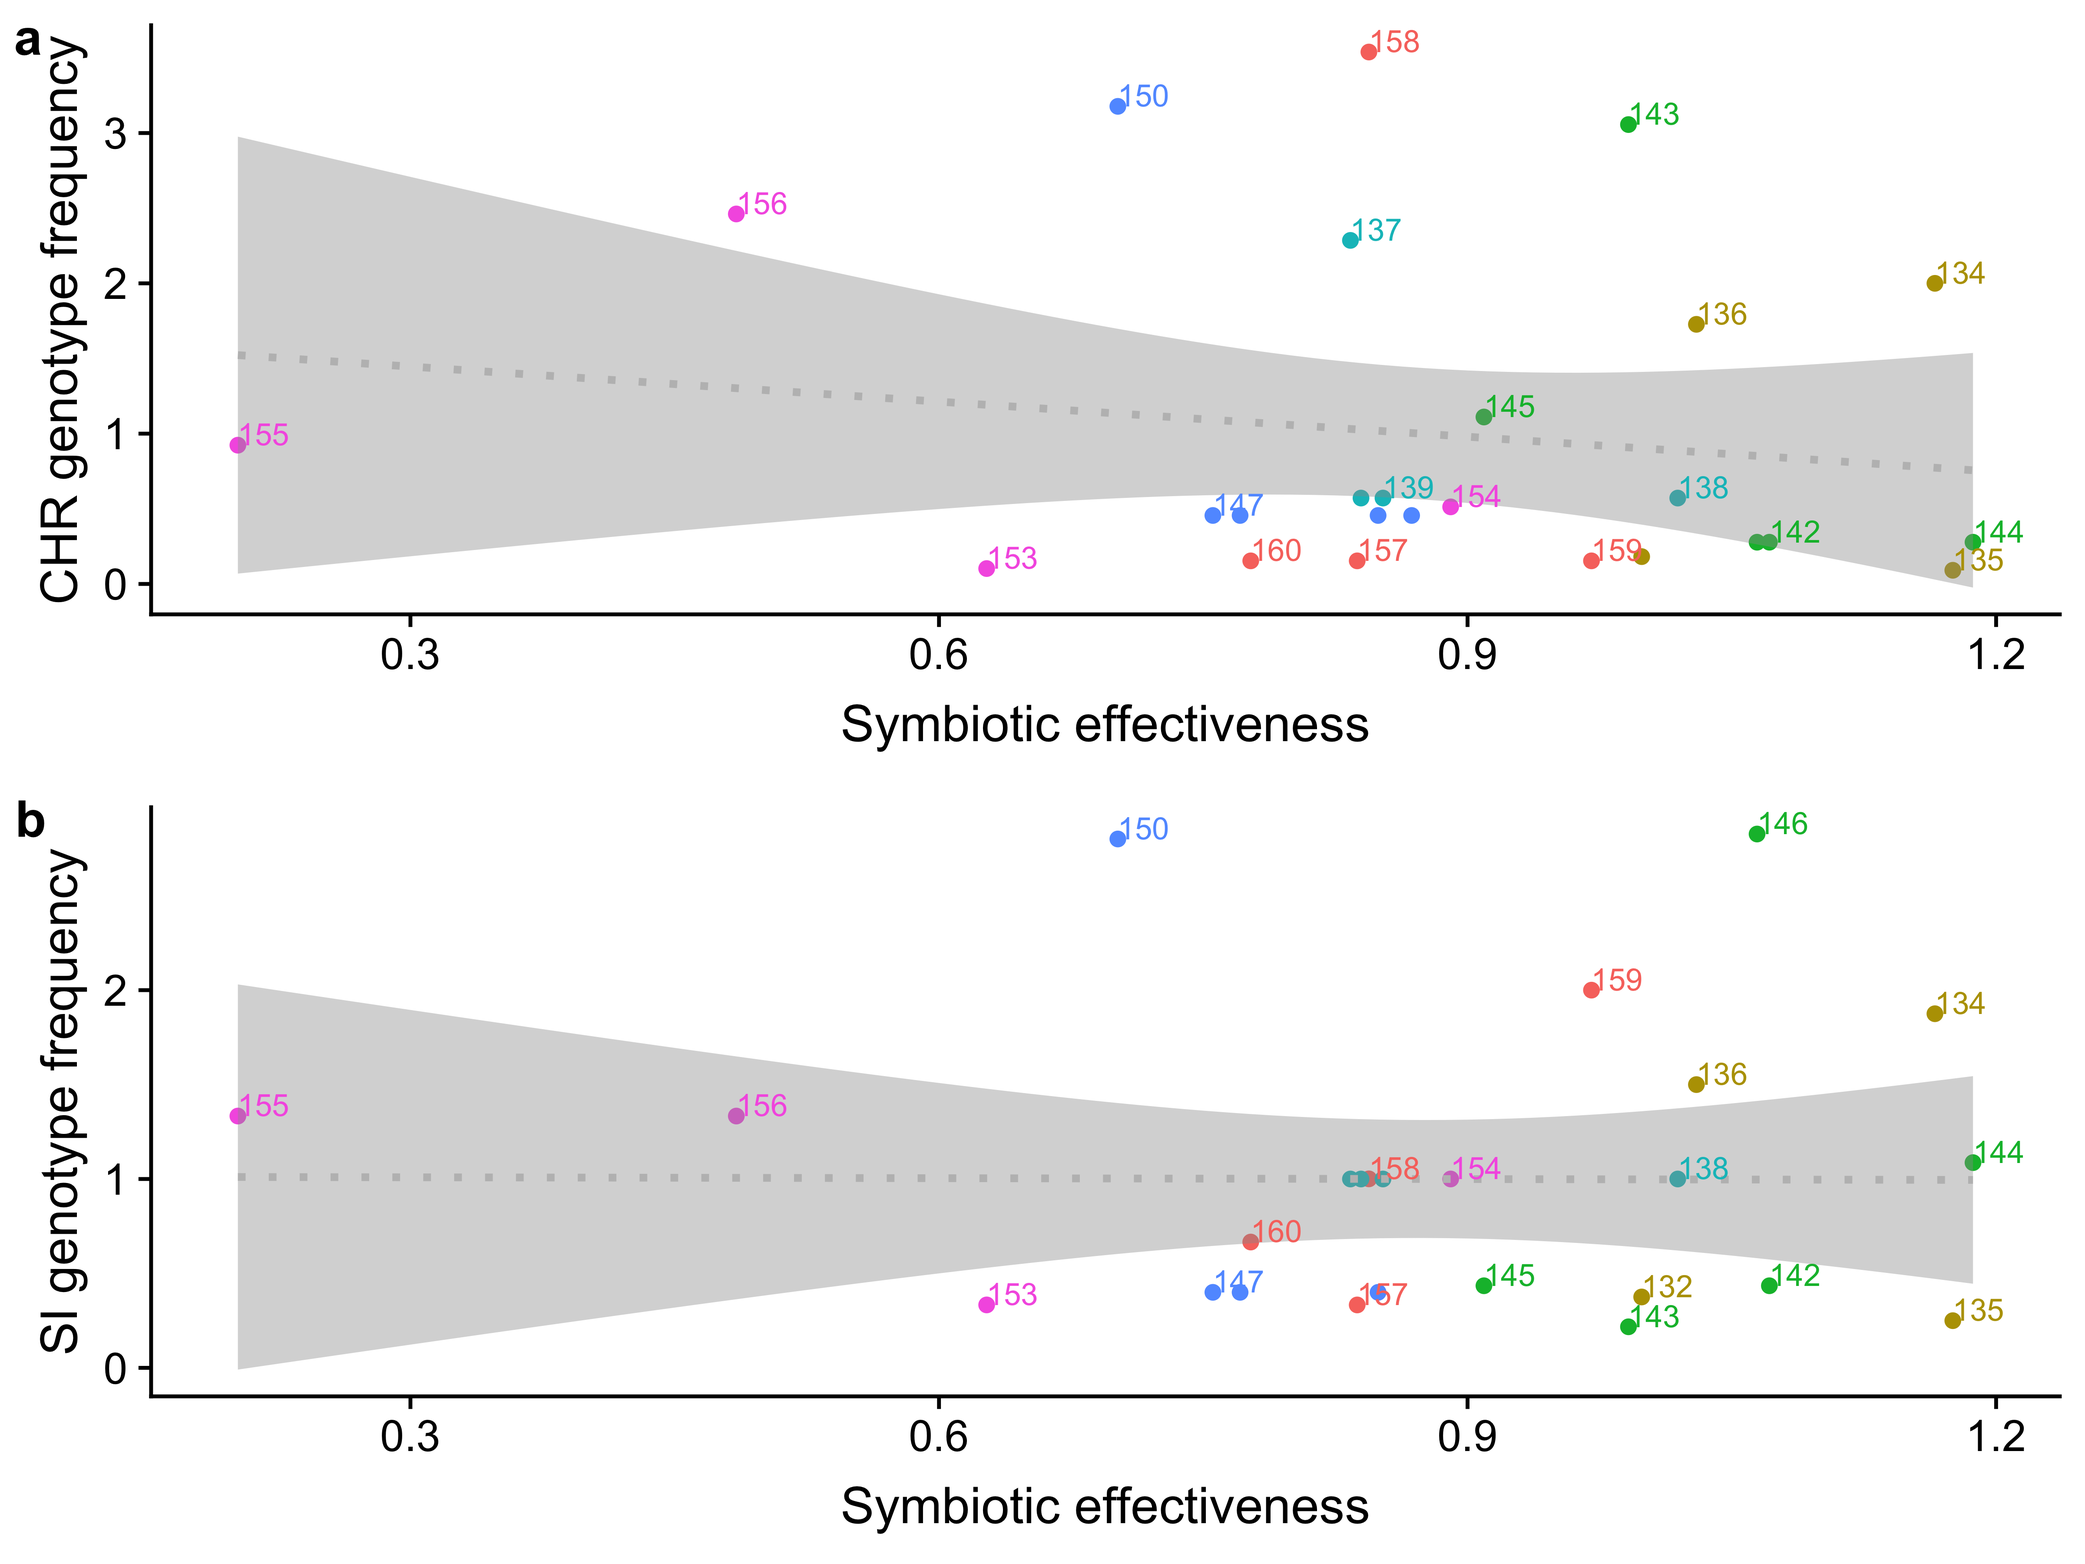
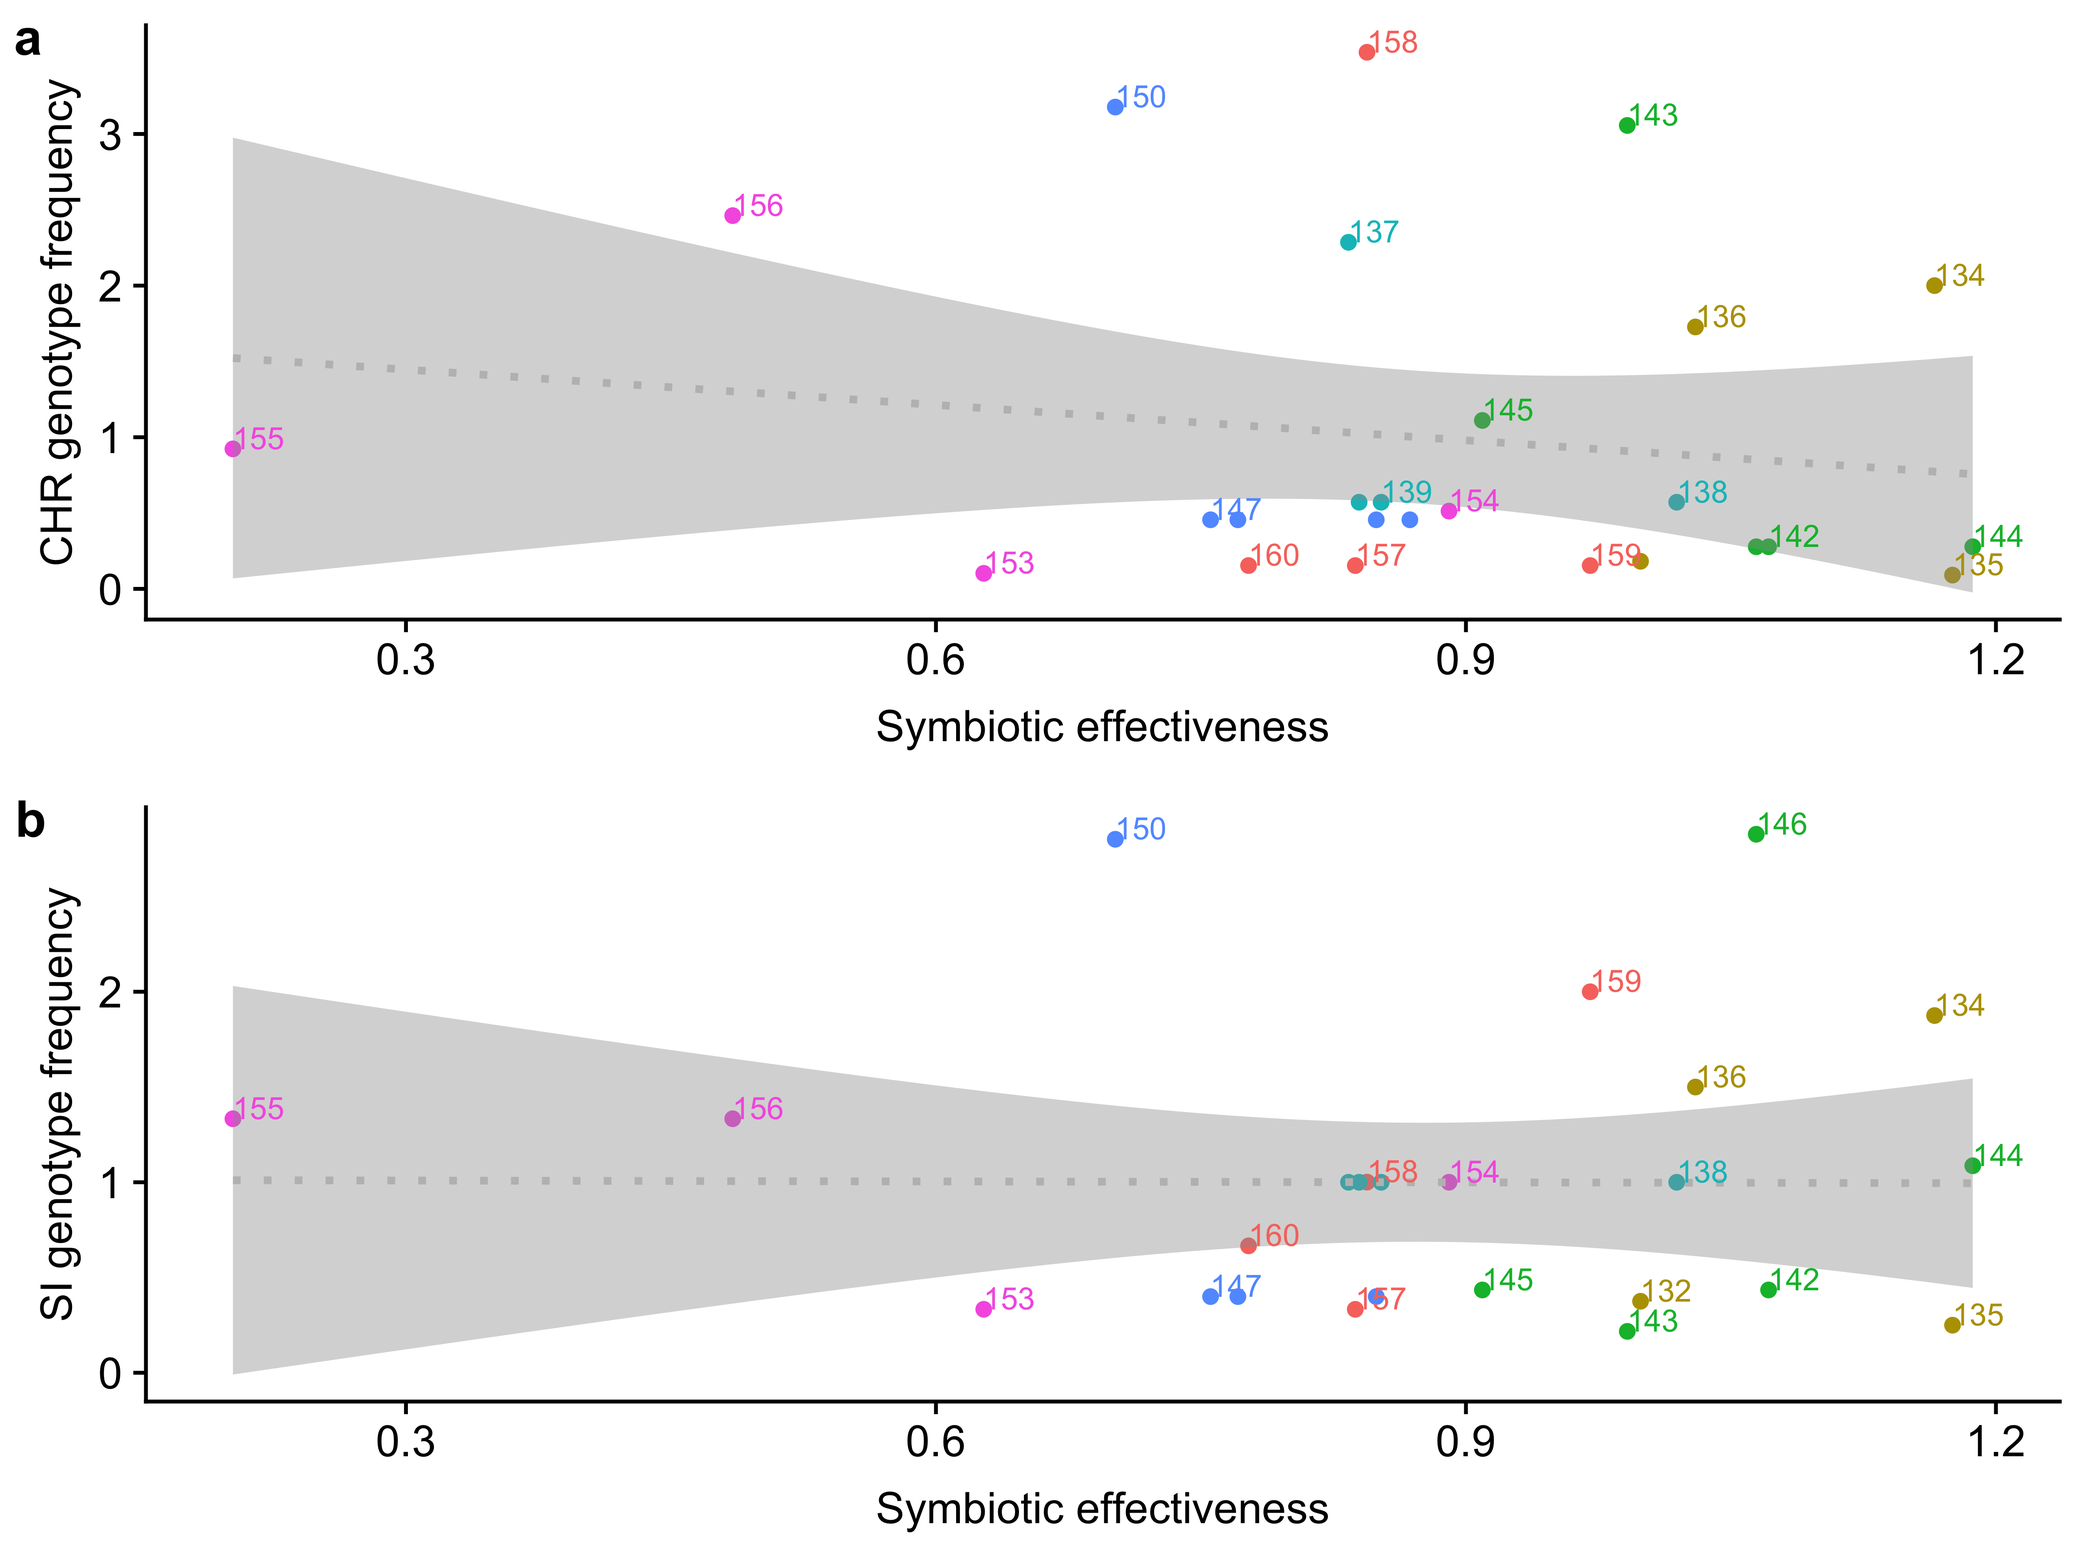
Commit from RStudio

diff --git a/README.md b/README.md
@@ -79,6 +79,9 @@ new.table2 <- data_sym %>% group_by(Population, Strain) %>% summarize(mean_RGR =
 
 #Merge data in Tables S2 and S4 into a single data frame
 df <- merge(table_S2, new.table2[ ,2:6], by="Strain") 
+
+#For later, set font size for text in figure axis labels
+x=12
 ```
 
 How many nodules and plants were sampled per site?
@@ -165,9 +168,9 @@ summary(model2) #Significant correlation
 
 ``` r
 #Make figures
-CHR <- ggplot(data=df, aes(y=`CHR genotype frequency`, x=CHR_plants_sampled, color=Population))+geom_point()+ geom_smooth(method="lm", se=TRUE, color=1)+xlab("Plants sampled (no.)")+ylab("CHR genotype frequency")+geom_text(aes(label=Strain),hjust=0, vjust=0, size=2.5, nudge_x = 0.05, check_overlap=TRUE)+scale_x_continuous(limits=c(0, 35))+theme(legend.position = c(0.7,0.7), legend.text=element_text(size=8), legend.title =element_text(size=8))
+CHR <- ggplot(data=df, aes(y=`CHR genotype frequency`, x=CHR_plants_sampled, color=Population))+geom_point()+ geom_smooth(method="lm", se=TRUE, color=1)+xlab("Plants sampled (no.)")+ylab("CHR genotype frequency")+geom_text(aes(label=Strain),hjust=0, vjust=0, size=2.5, nudge_x = 0.05, check_overlap=TRUE)+scale_x_continuous(limits=c(0, 35))+theme(legend.position = c(0.7,0.7), legend.text=element_text(size=8), legend.title =element_text(size=8))+  theme(axis.title=element_text(size=x))
 
-SI <- ggplot(data=df, aes(y=`SI genotype frequency`, x=SI_plants_sampled, color=Population)) +geom_smooth(method="lm", se=TRUE, color=1)+geom_point()+xlab("Plants sampled (no.)")+ylab("SI genotype frequency")+geom_text(aes(label=Strain),hjust=0, vjust=0, size=2.5, nudge_x = 0.05, check_overlap=TRUE)+scale_x_continuous(limits=c(0, 23))+guides(color=FALSE)
+SI <- ggplot(data=df, aes(y=`SI genotype frequency`, x=SI_plants_sampled, color=Population)) +geom_smooth(method="lm", se=TRUE, color=1)+geom_point()+xlab("Plants sampled (no.)")+ylab("SI genotype frequency")+geom_text(aes(label=Strain),hjust=0, vjust=0, size=2.5, nudge_x = 0.05, check_overlap=TRUE)+scale_x_continuous(limits=c(0, 23))+guides(color=FALSE)+  theme(axis.title=element_text(size=x))
 
 fig.plants <- plot_grid(CHR, SI, nrow=2, labels="auto") 
 fig.plants #Show figure
@@ -217,9 +220,9 @@ CHR.accum <- rbind(data.frame(plants=CHR.accum.YUC$sites, richness=CHR.accum.YUC
 CHR.accum$Population <- factor(CHR.accum$Population, levels=c("ANZ", "BMR", "CLA", "GRI", "UCR", "YUC"))
 
 #Plot 'genotype accumulation' curves
-SI.accum.curve <- ggplot(data=SI.accum, aes(x=plants, y=richness, color=Population))+geom_point()+geom_line()+geom_errorbar(aes(x=plants, ymin=richness-SD, ymax=richness+SD), alpha=0.5, width=0.1)+xlab("Plants sampled (no.)")+ylab("Unique SI genotypes (no.)")+scale_x_continuous(limits=c(0, 23))+guides(color=FALSE)
+SI.accum.curve <- ggplot(data=SI.accum, aes(x=plants, y=richness, color=Population))+geom_point()+geom_line()+geom_errorbar(aes(x=plants, ymin=richness-SD, ymax=richness+SD), alpha=0.5, width=0.1)+xlab("Plants sampled (no.)")+ylab("Unique SI genotypes (no.)")+scale_x_continuous(limits=c(0, 23))+guides(color=FALSE)+  theme(axis.title=element_text(size=x))
 
-CHR.accum.curve <- ggplot(data=CHR.accum, aes(x=plants, y=richness, color=Population))+geom_point()+geom_line()+geom_errorbar(aes(x=plants, ymin=richness-SD, ymax=richness+SD), alpha=0.5, width=0.1)+xlab("Plants sampled (no.)")+ylab("Unique CHR genotypes (no.)")+scale_x_continuous(limits=c(0, 35))+guides(color=FALSE)
+CHR.accum.curve <- ggplot(data=CHR.accum, aes(x=plants, y=richness, color=Population))+geom_point()+geom_line()+geom_errorbar(aes(x=plants, ymin=richness-SD, ymax=richness+SD), alpha=0.5, width=0.1)+xlab("Plants sampled (no.)")+ylab("Unique CHR genotypes (no.)")+scale_x_continuous(limits=c(0, 35))+guides(color=FALSE)+  theme(axis.title=element_text(size=x))
  
 fig.accum <- plot_grid(CHR.accum.curve, SI.accum.curve, nrow=2, labels="auto")
 fig.accum
@@ -316,9 +319,9 @@ Anova(model4) #Numbers match paper
 
 ``` r
 #Make my own version of the authors' Figure 5
-orig.fig5.CHR <- ggplot(data=df, aes(y=`CHR genotype frequency`, x=mean_log10_RGR, color=Population))+geom_smooth(method="lm", color=1)+geom_point()+xlab("Symbiotic effectiveness")+ylab("CHR genotype frequency")+geom_text(aes(label=Strain),hjust=0, vjust=0, size=2.5, check_overlap=TRUE)+theme(legend.position = c(0.7, 0.7))
+orig.fig5.CHR <- ggplot(data=df, aes(y=`CHR genotype frequency`, x=mean_log10_RGR, color=Population))+geom_smooth(method="lm", color=1)+geom_point()+xlab("Symbiotic effectiveness")+ylab("CHR genotype frequency")+geom_text(aes(label=Strain),hjust=0, vjust=0, size=2.5, check_overlap=TRUE)+theme(legend.position = c(0.7, 0.7))+  theme(axis.title=element_text(size=x))
 
-orig.fig5.SI <- ggplot(data=df, aes(y=`SI genotype frequency`, x=mean_log10_RGR, color=Population)) +geom_smooth(method="lm", color=1)+geom_point()+xlab("Symbiotic effectiveness")+ylab("SI genotype frequency")+ geom_text(aes(label=Strain),hjust=0, vjust=0, size=2.5,  check_overlap=TRUE)+guides(color=FALSE)
+orig.fig5.SI <- ggplot(data=df, aes(y=`SI genotype frequency`, x=mean_log10_RGR, color=Population)) +geom_smooth(method="lm", color=1)+geom_point()+xlab("Symbiotic effectiveness")+ylab("SI genotype frequency")+ geom_text(aes(label=Strain),hjust=0, vjust=0, size=2.5,  check_overlap=TRUE)+guides(color=FALSE)+  theme(axis.title=element_text(size=x))
 
 orig.fig5 <-plot_grid(orig.fig5.CHR, orig.fig5.SI, nrow=2, labels="auto")
 orig.fig5 #Hmm ... very close, but not exactly the same
@@ -441,9 +444,9 @@ summary(model8) #Non-significant
 
 ``` r
 #Make new versions of Figure 5
-new.Fig5.CHR.unstandardized <- ggplot(data=df, aes(y=CHR_std, x=mean_log10_RGR, color=Population))+ geom_point()+geom_smooth(method="lm", se=TRUE, linetype="dotted", color="grey")+geom_text(aes(label=Strain),hjust=0, vjust=0, size=3, check_overlap=TRUE)+ylab("CHR genotype frequency")+xlab("Symbiotic effectiveness")+guides(color=FALSE)
+new.Fig5.CHR.unstandardized <- ggplot(data=df, aes(y=CHR_std, x=mean_log10_RGR, color=Population))+ geom_point()+geom_smooth(method="lm", se=TRUE, linetype="dotted", color="grey")+geom_text(aes(label=Strain),hjust=0, vjust=0, size=3, check_overlap=TRUE)+ylab("CHR genotype frequency")+xlab("Symbiotic effectiveness")+guides(color=FALSE)+  theme(axis.title=element_text(size=x))
 
-new.Fig5.SI.unstandardized <- ggplot(data=df, aes(y=SI_std, x=mean_log10_RGR, color=Population))+geom_point()+geom_smooth(method="lm", se=TRUE, linetype="dotted", color="grey")+geom_text(aes(label=Strain),hjust=0, vjust=0, size=3, check_overlap=TRUE)+ ylab("SI genotype frequency")+ xlab("Symbiotic effectiveness")+guides(color=FALSE)
+new.Fig5.SI.unstandardized <- ggplot(data=df, aes(y=SI_std, x=mean_log10_RGR, color=Population))+geom_point()+geom_smooth(method="lm", se=TRUE, linetype="dotted", color="grey")+geom_text(aes(label=Strain),hjust=0, vjust=0, size=3, check_overlap=TRUE)+ ylab("SI genotype frequency")+ xlab("Symbiotic effectiveness")+guides(color=FALSE)+  theme(axis.title=element_text(size=x))
 
 new.Fig5ab <- plot_grid(new.Fig5.CHR.unstandardized, new.Fig5.SI.unstandardized, nrow=2, labels="auto")
 new.Fig5ab
@@ -533,18 +536,18 @@ summary(model9) #Non-significant
     ## 
     ## Residuals:
     ##      Min       1Q   Median       3Q      Max 
-    ## -0.14593 -0.07146 -0.03860  0.00511  0.38578 
+    ## -0.14572 -0.06900 -0.03904  0.00569  0.38962 
     ## 
     ## Coefficients:
-    ##                Estimate Std. Error t value Pr(>|t|)   
-    ## (Intercept)      0.3293     0.1173   2.808  0.00974 **
-    ## mean_log10_RGR  -0.2179     0.1304  -1.670  0.10784   
+    ##                Estimate Std. Error t value Pr(>|t|)  
+    ## (Intercept)      0.3272     0.1171   2.793   0.0101 *
+    ## mean_log10_RGR  -0.2162     0.1303  -1.659   0.1100  
     ## ---
     ## Signif. codes:  0 '***' 0.001 '**' 0.01 '*' 0.05 '.' 0.1 ' ' 1
     ## 
-    ## Residual standard error: 0.141 on 24 degrees of freedom
-    ## Multiple R-squared:  0.1041, Adjusted R-squared:  0.06682 
-    ## F-statistic:  2.79 on 1 and 24 DF,  p-value: 0.1078
+    ## Residual standard error: 0.1408 on 24 degrees of freedom
+    ## Multiple R-squared:  0.1029, Adjusted R-squared:  0.06555 
+    ## F-statistic: 2.754 on 1 and 24 DF,  p-value: 0.11
 
 ``` r
 #Fit model for mean SI genotype frequency from re-sampling and RGR
@@ -558,26 +561,26 @@ summary(model10) #Non-significant
     ## 
     ## Residuals:
     ##      Min       1Q   Median       3Q      Max 
-    ## -0.18867 -0.09930 -0.03312  0.06315  0.26833 
+    ## -0.18624 -0.09443 -0.03630  0.06844  0.27518 
     ## 
     ## Coefficients:
     ##                Estimate Std. Error t value Pr(>|t|)  
-    ## (Intercept)     0.29317    0.13529   2.167   0.0425 *
-    ## mean_log10_RGR -0.06033    0.14798  -0.408   0.6878  
+    ## (Intercept)      0.2978     0.1311   2.271   0.0343 *
+    ## mean_log10_RGR  -0.0716     0.1434  -0.499   0.6230  
     ## ---
     ## Signif. codes:  0 '***' 0.001 '**' 0.01 '*' 0.05 '.' 0.1 ' ' 1
     ## 
-    ## Residual standard error: 0.158 on 20 degrees of freedom
-    ## Multiple R-squared:  0.008243,   Adjusted R-squared:  -0.04135 
-    ## F-statistic: 0.1662 on 1 and 20 DF,  p-value: 0.6878
+    ## Residual standard error: 0.1531 on 20 degrees of freedom
+    ## Multiple R-squared:  0.01231,    Adjusted R-squared:  -0.03707 
+    ## F-statistic: 0.2493 on 1 and 20 DF,  p-value: 0.623
 
 ``` r
 #Make figures
 new.Fig5.CHR.downsampled <-ggplot(data=CHR.sum, aes(x=mean_log10_RGR, y=mean_CHR_freq, color=Population.x))+
-geom_point()+geom_smooth(method="lm", linetype="dotted", color="grey")+geom_text(aes(label=Strain),hjust=0, vjust=0, size=3, check_overlap=TRUE)+ylab("CHR genotype frequency")+xlab("Symbiotic effectiveness")+guides(color=FALSE)
+geom_point()+geom_smooth(method="lm", linetype="dotted", color="grey")+geom_text(aes(label=Strain),hjust=0, vjust=0, size=3, check_overlap=TRUE)+ylab("CHR genotype frequency")+xlab("Symbiotic effectiveness")+guides(color=FALSE)+  theme(axis.title=element_text(size=x))
 
 new.Fig5.SI.downsampled <-ggplot(data=SI.sum, aes(x=mean_log10_RGR, y=mean_SI_freq, color=Population.x))+
-geom_point()+geom_smooth(method="lm", linetype="dotted", color="grey")+geom_text(aes(label=Strain),hjust=0, vjust=0, size=3, check_overlap=TRUE)+ylab("SI genotype frequency")+xlab("Symbiotic effectiveness")+guides(color=FALSE)
+geom_point()+geom_smooth(method="lm", linetype="dotted", color="grey")+geom_text(aes(label=Strain),hjust=0, vjust=0, size=3, check_overlap=TRUE)+ylab("SI genotype frequency")+xlab("Symbiotic effectiveness")+guides(color=FALSE)+  theme(axis.title=element_text(size=x))
 
 full.new.Fig5 <- plot_grid(new.Fig5.CHR.unstandardized, new.Fig5.SI.unstandardized, new.Fig5.CHR.downsampled, new.Fig5.SI.downsampled, nrow=2, ncol=2, labels="auto")
 full.new.Fig5
@@ -647,20 +650,11 @@ summary(model12) #Non-significant correlation
 
 ``` r
 #Make figure
-CHR.nods <- ggplot(data=df, aes(y=`CHR genotype frequency`, x=CHR_nods_sampled, color=Population))+geom_point()+ geom_smooth(method="lm", se=TRUE, color="grey", linetype="dotted")+xlab("Nodules sampled (no.)")+ylab("CHR genotype frequency")+geom_text(aes(label=Strain),hjust=0, vjust=0, size=2.5, nudge_x = 0.05, check_overlap=TRUE)+theme(legend.position = c(0.7,0.7))
+CHR.nods <- ggplot(data=df, aes(y=`CHR genotype frequency`, x=CHR_nods_sampled, color=Population))+geom_point()+ geom_smooth(method="lm", se=TRUE, color="grey", linetype="dotted")+xlab("Nodules sampled (no.)")+ylab("CHR genotype frequency")+geom_text(aes(label=Strain),hjust=0, vjust=0, size=2.5, nudge_x = 0.05, check_overlap=TRUE)+theme(legend.position = c(0.7,0.7))+  theme(axis.title=element_text(size=x))
 
-SI.nods <- ggplot(data=df, aes(y=`SI genotype frequency`, x=SI_nods_sampled, color=Population)) +geom_smooth(method="lm", se=TRUE, color="black")+geom_point()+xlab("Nodules sampled (no.)")+ylab("SI genotype frequency")+geom_text(aes(label=Strain),hjust=0, vjust=0, size=2.5, nudge_x = 0.05, check_overlap=TRUE)+guides(color=FALSE)
+SI.nods <- ggplot(data=df, aes(y=`SI genotype frequency`, x=SI_nods_sampled, color=Population)) +geom_smooth(method="lm", se=TRUE, color="black")+geom_point()+xlab("Nodules sampled (no.)")+ylab("SI genotype frequency")+geom_text(aes(label=Strain),hjust=0, vjust=0, size=2.5, nudge_x = 0.05, check_overlap=TRUE)+guides(color=FALSE)+  theme(axis.title=element_text(size=x))
 
 fig.nods <- plot_grid(CHR.nods, SI.nods, nrow=2, labels="auto") 
-```
-
-    ## Warning: Removed 1 rows containing non-finite values (stat_smooth).
-
-    ## Warning: Removed 1 rows containing missing values (geom_point).
-
-    ## Warning: Removed 1 rows containing missing values (geom_text).
-
-``` r
 fig.nods #Show figure
 ```
 
@@ -704,7 +698,8 @@ SI.nods.sampling <- ggplot()+geom_smooth(data=subset(real.data, locus == "SI_hap
   ylab("Unique SI genotypes (no.)")+xlab("Nodules sampled (no.)")+
   guides(fill=FALSE)+
   #  geom_jitter(data=subset(random.data, locus == "SI_haplotype"), aes(x=total_nods_sampled, y=n_unique_haplotypes), shape=1)+
-  geom_point(data=subset(real.data, locus == "SI_haplotype"), aes(x=total_nods_sampled, y=n_unique_haplotypes))
+  geom_point(data=subset(real.data, locus == "SI_haplotype"), aes(x=total_nods_sampled, y=n_unique_haplotypes))+
+    theme(axis.title=element_text(size=x))
 
 
 CHR.nods.sampling <- ggplot()+geom_smooth(data=subset(real.data, locus == "CHR_haplotype"), aes(x=total_nods_sampled, y=n_unique_haplotypes), method="lm", color="black")+
@@ -712,31 +707,15 @@ CHR.nods.sampling <- ggplot()+geom_smooth(data=subset(real.data, locus == "CHR_h
   ylab("Unique CHR genotypes (no.)")+xlab("Nodules sampled (no.)")+
   guides(fill=FALSE)+
   #  geom_jitter(data=subset(random.data, locus == "CHR_haplotype"), aes(x=total_nods_sampled, y=n_unique_haplotypes), shape=1)+
-  geom_point(data=subset(real.data, locus == "CHR_haplotype"), aes(x=total_nods_sampled, y=n_unique_haplotypes))
+  geom_point(data=subset(real.data, locus == "CHR_haplotype"), aes(x=total_nods_sampled, y=n_unique_haplotypes))+
+  theme(axis.title=element_text(size=x))
 
-
-fig.nods.sampling <- plot_grid(CHR.nods.sampling, SI.nods.sampling, labels="auto") 
-fig.nods.sampling
-```
-
-![](README_files/figure-markdown_github/unnamed-chunk-1-1.png)
-
-``` r
 #Combine with previous figures to make full figure for paper
 fig1 <- plot_grid(CHR, SI, CHR.accum.curve, SI.accum.curve, CHR.nods.sampling, SI.nods.sampling, nrow=3, ncol=2, labels="auto", scale=0.95)
-```
-
-    ## Warning: Removed 1 rows containing non-finite values (stat_smooth).
-
-    ## Warning: Removed 1 rows containing missing values (geom_point).
-
-    ## Warning: Removed 1 rows containing missing values (geom_text).
-
-``` r
 fig1
 ```
 
-![](README_files/figure-markdown_github/unnamed-chunk-1-2.png)
+![](README_files/figure-markdown_github/nodules%20independent-1.png)
 
 ``` r
 save_plot("Fig1.png", fig1, base_width=8, base_height=8)
